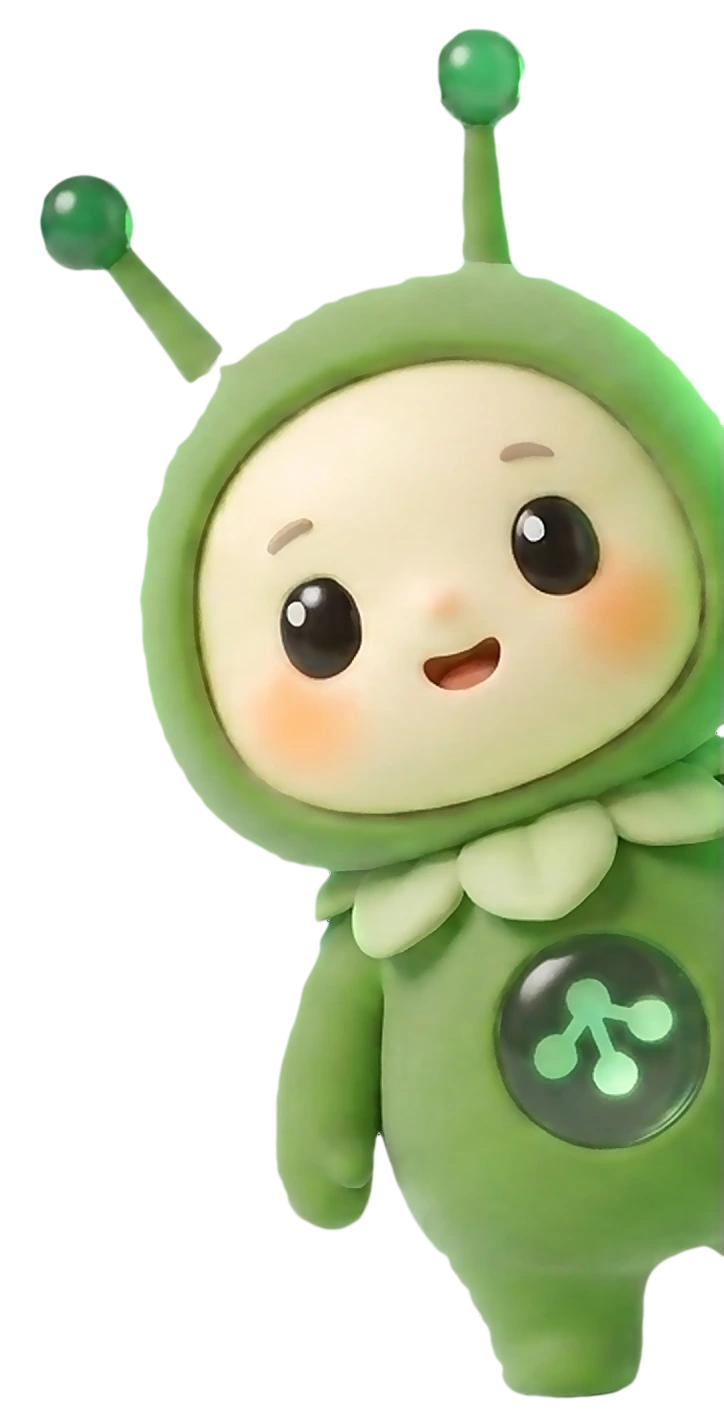
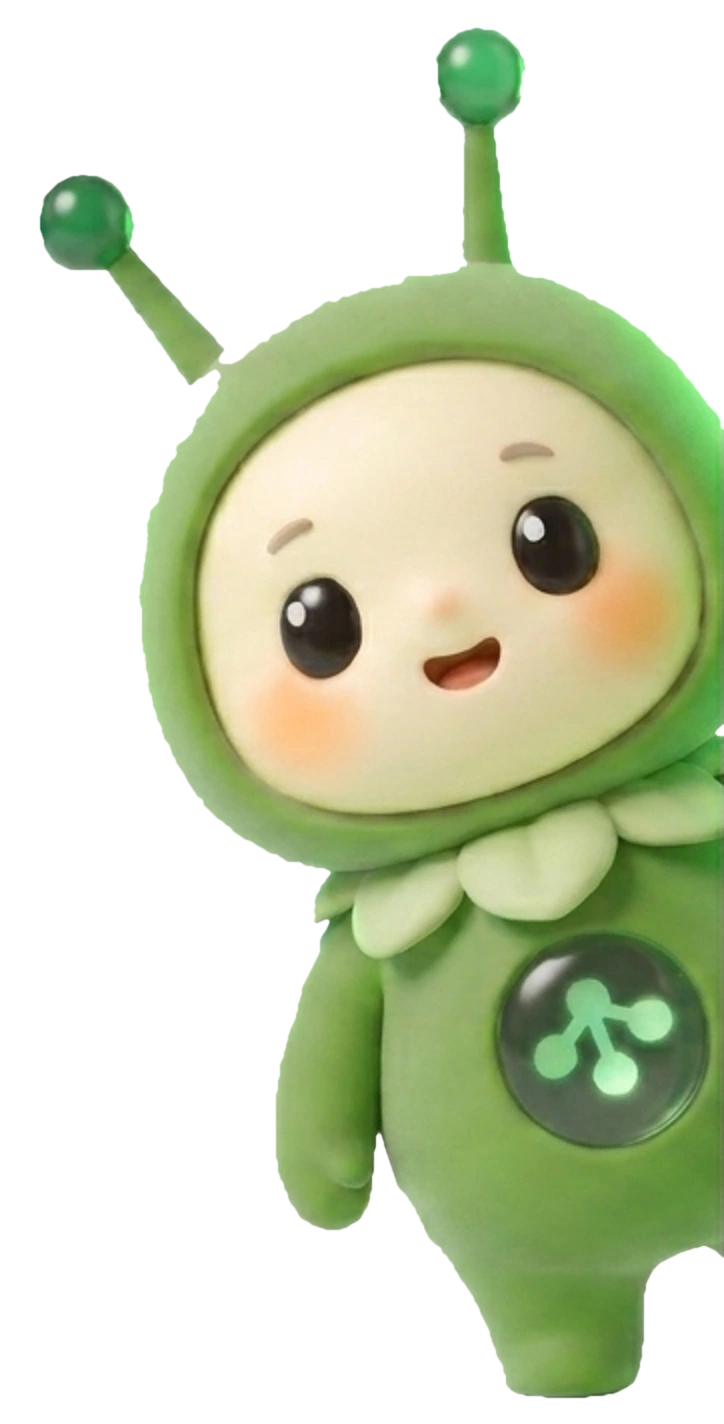
fix(acceso): Nico asomado fiel a la imagen original, con contorno limpio y sombras más sutiles

diff --git a/FrontEnd/src/styles/global.css b/FrontEnd/src/styles/global.css
@@ -555,13 +555,13 @@ button.ui-menuitem:hover {
   transform: rotate(-10deg);
 }
 /* Nico asomado en soft 3D: su borde recortado queda en el borde del panel, que lo tapa.
-   Halo verde detrás, sombras en capas con luz de borde lima y una flotación suave. */
+   Halo verde detrás, sombra suave y una flotación lenta. */
 .acceso__anillo::before {
   content: '';
   position: absolute;
   inset: 12%;
   border-radius: 50%;
-  background: radial-gradient(closest-side, rgba(43, 196, 122, 0.32), rgba(43, 196, 122, 0.08) 60%, transparent);
+  background: radial-gradient(closest-side, rgba(43, 196, 122, 0.22), rgba(43, 196, 122, 0.06) 60%, transparent);
   filter: blur(30px);
   pointer-events: none;
 }
@@ -572,11 +572,7 @@ button.ui-menuitem:hover {
   height: 84%;
   width: auto;
   transform: translateY(-50%);
-  filter:
-    drop-shadow(-1px -1px 0 rgba(214, 245, 120, 0.35))
-    drop-shadow(0 2px 3px rgba(0, 0, 0, 0.35))
-    drop-shadow(0 22px 30px rgba(0, 0, 0, 0.5))
-    drop-shadow(0 0 34px rgba(43, 196, 122, 0.28));
+  filter: drop-shadow(0 18px 26px rgba(0, 0, 0, 0.45)) drop-shadow(0 0 18px rgba(43, 196, 122, 0.14));
   animation:
     acceso-nico-asoma 0.9s cubic-bezier(0.2, 0.75, 0.2, 1) both,
     acceso-nico-flota 6s ease-in-out 0.9s infinite;
